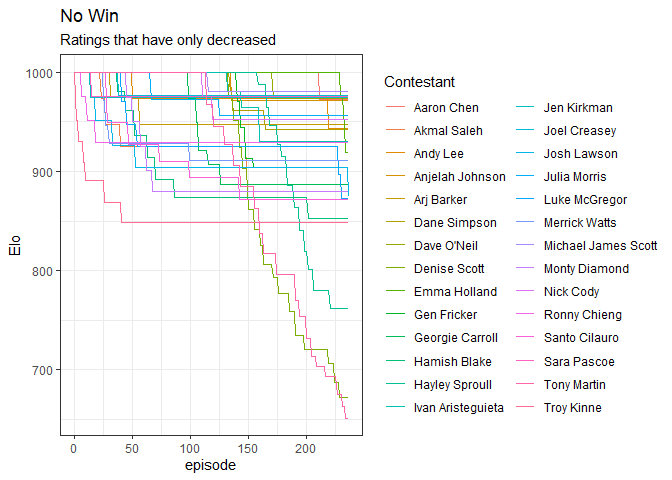
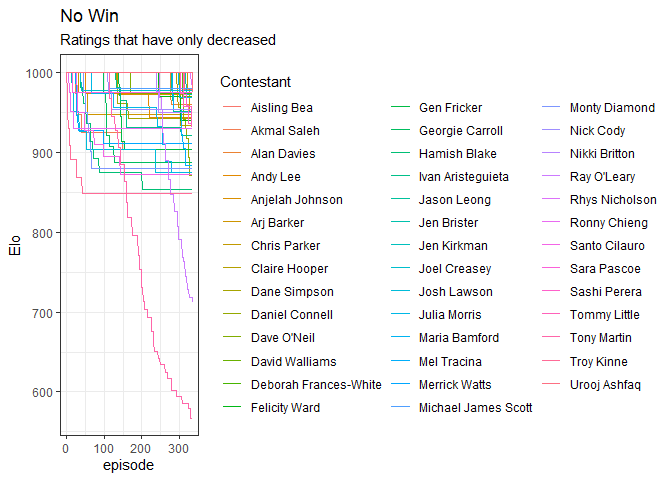
update data to 2025-09-24

diff --git a/Title.md b/Title.md
@@ -1,7 +1,7 @@
 HYBPA? Analysis
 ================
 Lachlan Webb
-24/05/2022
+24/09/2025
 
 ## HYBPA
 
@@ -90,7 +90,7 @@ four) and divide that by 29. The panelists Melanie beat were Ed Kavalee
 (35%, twice), Ash London (50%), Marty Sheargold (29%), Sam Pang (5.8%,
 twice), Tim McDonald (8.3%), and Kitty Flanagan (5.7%). So Melanie’s
 Adjusted Strike Rate
-\(= (0.35 \times 2 + 0.5 + 0.29 + 0.058 \times 2 + 0.083 + 0.057)/2 \approx 0.015\)
+$= (0.35 \times 2 + 0.5 + 0.29 + 0.058 \times 2 + 0.083 + 0.057)/2 \approx 0.015$
 
 ![](Title_files/figure-gfm/unnamed-chunk-5-1.png)<!-- -->
 
@@ -129,6 +129,12 @@ ranker after 15 appearances.
 
 We shouldn’t forget to mention all the panelists who have never won a
 show.
+
+    ## Warning: The `<scale>` argument of `guides()` cannot be `FALSE`. Use "none" instead as
+    ## of ggplot2 3.3.4.
+    ## This warning is displayed once every 8 hours.
+    ## Call `lifecycle::last_lifecycle_warnings()` to see where this warning was
+    ## generated.
 
 ![](Title_files/figure-gfm/unnamed-chunk-7-1.png)<!-- -->
 
